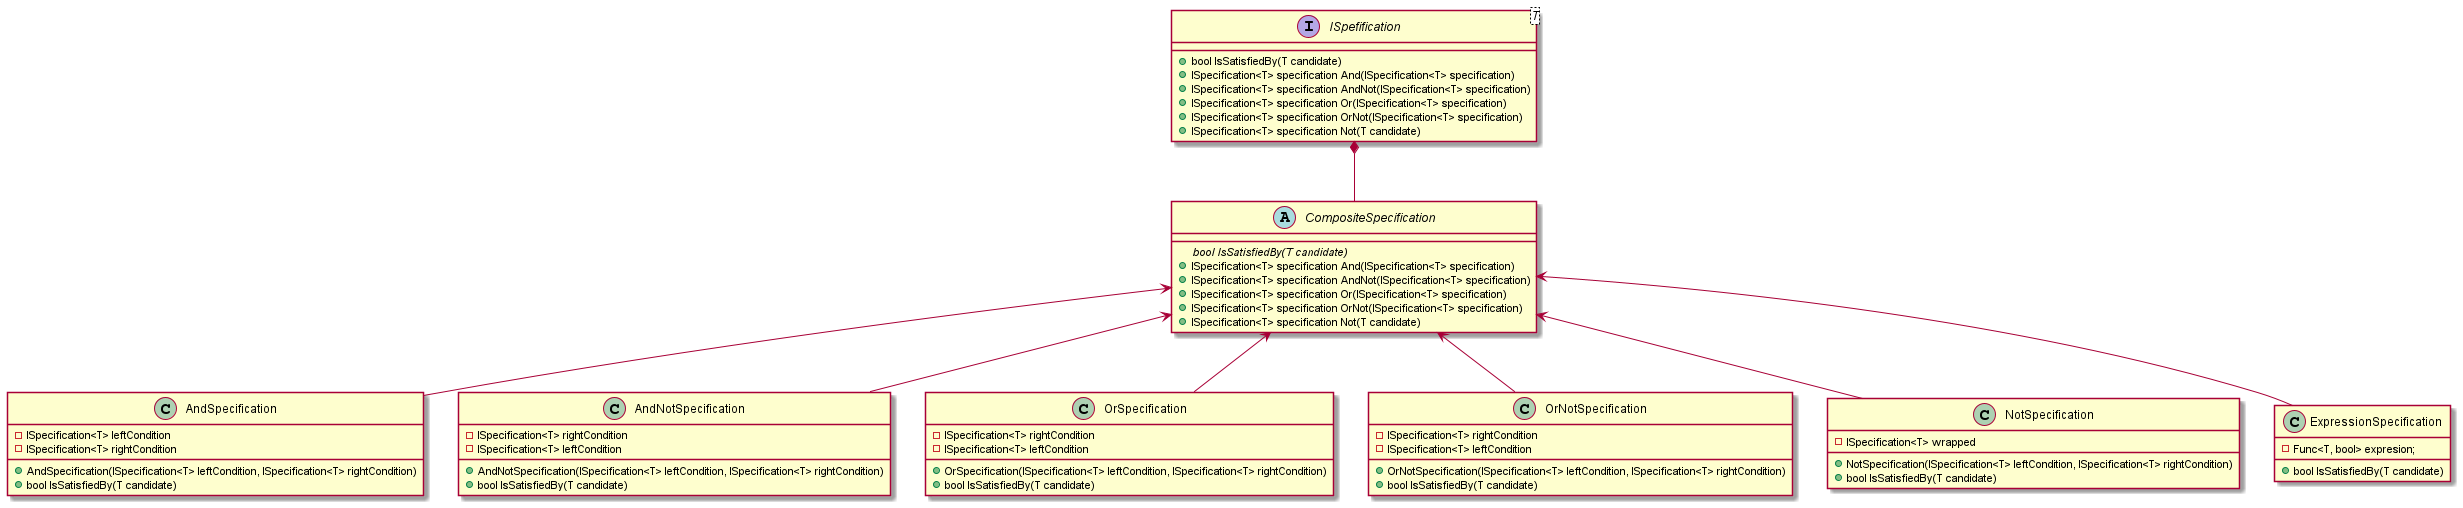
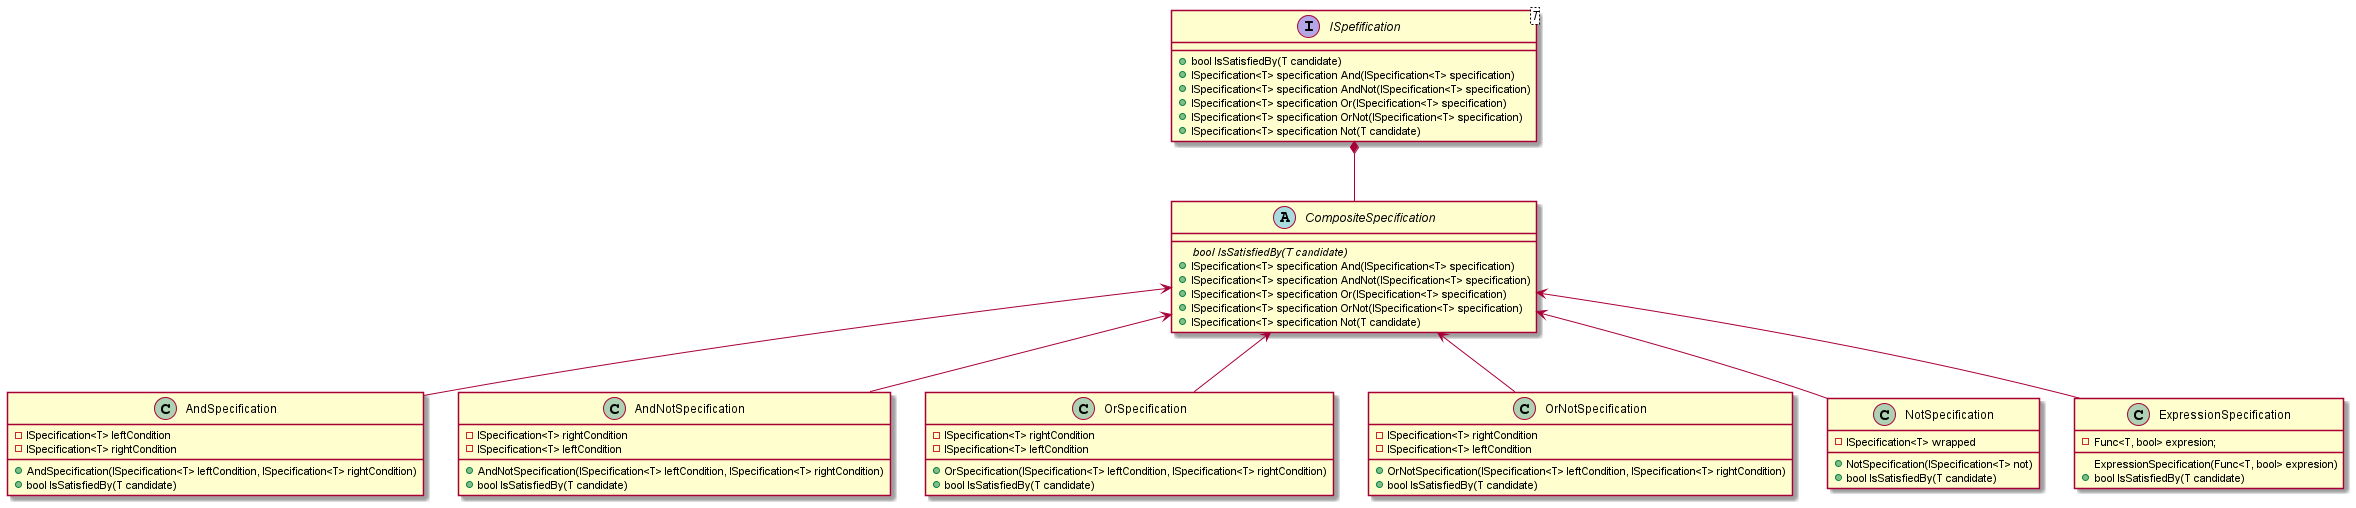
ajustando  diagrama

diff --git a/src/Optsol.Components.Specification/NotSpecification.cs b/src/Optsol.Components.Specification/NotSpecification.cs
@@ -4,7 +4,7 @@
     {
         private readonly ISpecification<T> wrapped;
 
-        public NotSpecification(ISpecification<T> not)
+        public NotSpecification(ISpecification<T> wrapped)
         {
             this.wrapped = not;
         }
